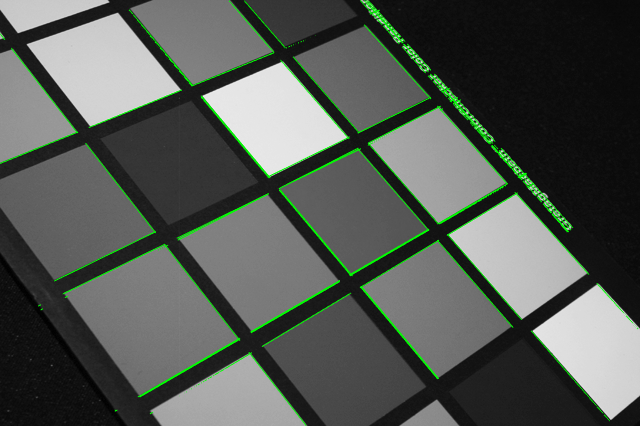
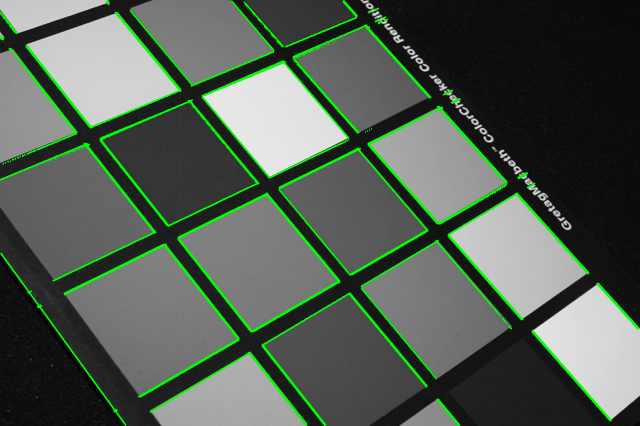
Now using Canny edge detector in the Hough Transformation Challenges instead of Sobel. Also updated all the thresholds and the readme file accordingly.

diff --git a/Assignments/HW3/src/runHw3.m b/Assignments/HW3/src/runHw3.m
@@ -47,10 +47,10 @@ hw3_walkthrough1;
 %%
 function challenge1a()
 img_list = {'hough_1', 'hough_2', 'hough_3'};
-edge_thresh = {0.1055, 0.06, 0.06};
+edge_thresh = {0.1, 0.1, 0.135};
 for i = 1:length(img_list)
     img = imread([img_list{i} '.png']);
-    edge_img = edge(img, 'sobel', edge_thresh{i});
+    edge_img = edge(img, 'canny', edge_thresh{i});
     
     % Note: The output from edge is an image of logical type.
     % Here we cast it to double before saving it.
@@ -61,8 +61,8 @@ end
 function challenge1b()
 img_list = {'hough_1', 'hough_2', 'hough_3'};
 
-rho_num_bins = 800; % ~ hypotenuse of 640x426 imgs
-theta_num_bins = 180;   % 360 degrees / 2, 1 degree per bin
+rho_num_bins = 900; % ~ hypotenuse of 640x426 imgs
+theta_num_bins = 240;   % 360 degrees / 2, 1 degree per bin
 for i = 1:length(img_list)
     img = imread(['edge_' img_list{i} '.png']);
     hough_accumulator = generateHoughAccumulator(img,...
@@ -78,7 +78,7 @@ end
 function challenge1c()
 
 img_list = {'hough_1', 'hough_2', 'hough_3'};
-hough_threshold = [100, 50, 150];
+hough_threshold = [115, 53.8, 60];
 
 for i = 1:length(img_list)
     orig_img = imread([img_list{i} '.png']);
@@ -98,7 +98,7 @@ end
 function challenge1d()
 
 img_list = {'hough_1', 'hough_2', 'hough_3'};
-hough_threshold = [100, 50, 150];
+hough_threshold = [115, 53.5, 60];
 
 for i = 1:length(img_list)
     orig_img = imread([img_list{i} '.png']);

diff --git a/Assignments/HW3/src/lineSegmentFinder.m b/Assignments/HW3/src/lineSegmentFinder.m
@@ -1,11 +1,17 @@
 function cropped_line_img = lineSegmentFinder(orig_img, hough_img, hough_threshold)
-    edge_img = im2double(edge(orig_img, 'sobel', .06));
+    % edge_img = im2double(edge(orig_img, 'sobel', .06));
+    if hough_threshold == 60
+        edge_thresh = 0.135;
+    else
+        edge_thresh = 0.1;
+    end
+    edge_img = im2double(edge(orig_img, 'canny', edge_thresh));
     % imshow(edge_img);
     [theta_max, rho_max] = size(hough_img);
                     
     % Convolve with a circular filter of radius 3 to find
     % if any pixels exist in the edges image
-    filter = ones(7, 7);  % fspecial('disk', 10);
+    % filter = ones(7, 7);  % fspecial('disk', 10);
     % Perform convolution 
     % convolved_img = imfilter(edge_img, filter, 'conv', 'replicate');
     convolved_img = bwmorph(edge_img, 'dilate', 1);
@@ -44,7 +50,7 @@ function cropped_line_img = lineSegmentFinder(orig_img, hough_img, hough_thresho
                         X(2) = x;
                         Y(2) = y;
                         % fprintf("(%d, %d) (%d, %d)\n", X(1), Y(1), X(2), Y(2));
-                        plot(Y, X, 'Color', 'g');
+                        plot(Y, X, 'Color', 'g', 'LineWidth', 1.3);
                     end
                     x = x + .1;
                 end

diff --git a/Assignments/HW3/src/lineFinder.m b/Assignments/HW3/src/lineFinder.m
@@ -13,7 +13,7 @@ function line_detected_img = lineFinder(orig_img, hough_img, hough_threshold)
                 % fprintf("rho = %f theta = %f\n", rho_val, theta_val);
                 x = 1 : ht;
                 y = x * tand(theta_val) + rho_val * secd(theta_val);
-                plot(y, x, 'Color', 'g');
+                plot(y, x, 'Color', 'g', 'LineWidth', 1);
             end
         end
     end

diff --git a/Assignments/HW3/src/generateHoughAccumulator.m b/Assignments/HW3/src/generateHoughAccumulator.m
@@ -33,6 +33,4 @@ function hough_img = generateHoughAccumulator(img, theta_num_bins, rho_num_bins)
             hough_img(row, col) = ceil((hough_img(row, col) - min_val) / (max_val - min_val) * 255);
         end
     end
-    
-    imshow(hough_img);
 end

diff --git a/Assignments/HW3/src/README.md b/Assignments/HW3/src/README.md
@@ -5,17 +5,17 @@
 * _Canny_ edge detection threshold: `0.18`
 
 ### Challenge 1a - `detect edges`:
-- _Sobel_ edge detection algorithm is used. 
-- Value of thresholds used to detect edges in `hough_1.png`, `hough_2.png`, and `hough_3.png` are `0.1055`, `0.06`, and `0.06` respectively.
+- _Canny_ edge detection algorithm is used. 
+- Value of thresholds used to detect edges in `hough_1.png`, `hough_2.png`, and `hough_3.png` are `0.1`, `0.1`, and `0.135` respectively.
 
 ### Challenge 1b - `generateHoughAccumulator()`:
 **Finetuning Hough Accumulator resolution:** 
 To perform Hough Transform in theta-rho space, the number of bins used in each axis are as follows:
 
-&theta;: 180 
-&rho;: 1600
+&theta;: 240
+&rho;: 900
 
-The reason for this is each bin in theta space can correspond to 1 degree and each bin in rho space corresponds to 1 pixel unit of distance. Therefore, theta space captures all possible orientations from 1 degree to 180 degrees. Similarly, the maximum possible distance of a line is the length of the maximum diagonal given for all the images which is approximately 800 pixels. Therefore all possible distances from -800 pixels to +800 pixels will be captured at a level of 1 pixel distance per bin.
+The reason for this is each bin in theta space can correspond to 0.75 degrees and each bin in rho space corresponds to approximately 1 pixel unit of distance. Therefore, theta space captures all possible orientations from 1 degree to 180 degrees. Similarly, the maximum possible distance of a line is the length of the maximum diagonal given for all the images which is approximately 800 pixels. Therefore by leaving some margin for error, all possible distances from -800 pixels to +800 pixels will be captured at a level of approximately 1 pixel distance per bin.
 
 **Voting Scheme:**
 For voting, each bin in the accumulator array is used instead of a patch of few nearby bins. This is because the resolution chosen is just right and neither too low to deteriorate the accuracy nor too high so that it is inefficient.
@@ -23,7 +23,7 @@ For voting, each bin in the accumulator array is used instead of a patch of few 
 In conclusion, the resolution of the Hough Accumulator chosen along with the voting algorithm gives decent results for the given images.
 
 ### Challenge 1c - `lineFinder()`:
-Given the Hough accumulator returned by `generateHoughAccumulator()` in Challenge 1b, a standard threshold mechanism is used to find Hough peaks that correspond to edge lines in each image. The value of thresholds used for `hough_1.png`, `hough_2.png`, and `hough_3.png` are `110`, `50`, and `150` respectively.
+Given the Hough accumulator returned by `generateHoughAccumulator()` in Challenge 1b, a standard threshold mechanism is used to find Hough peaks that correspond to edge lines in each image. The value of thresholds used for `hough_1.png`, `hough_2.png`, and `hough_3.png` are `115`, `53.8`, and `60` respectively.
 
 The Hough accumulator is scanned and the corresponding &theta; and &rho; values for which the value accumulated is greater than the threshold are noted. The corresponding lines given by each pair of (&theta;, &rho;) values are then plotted onto the original image to indicate edge lines.
 
